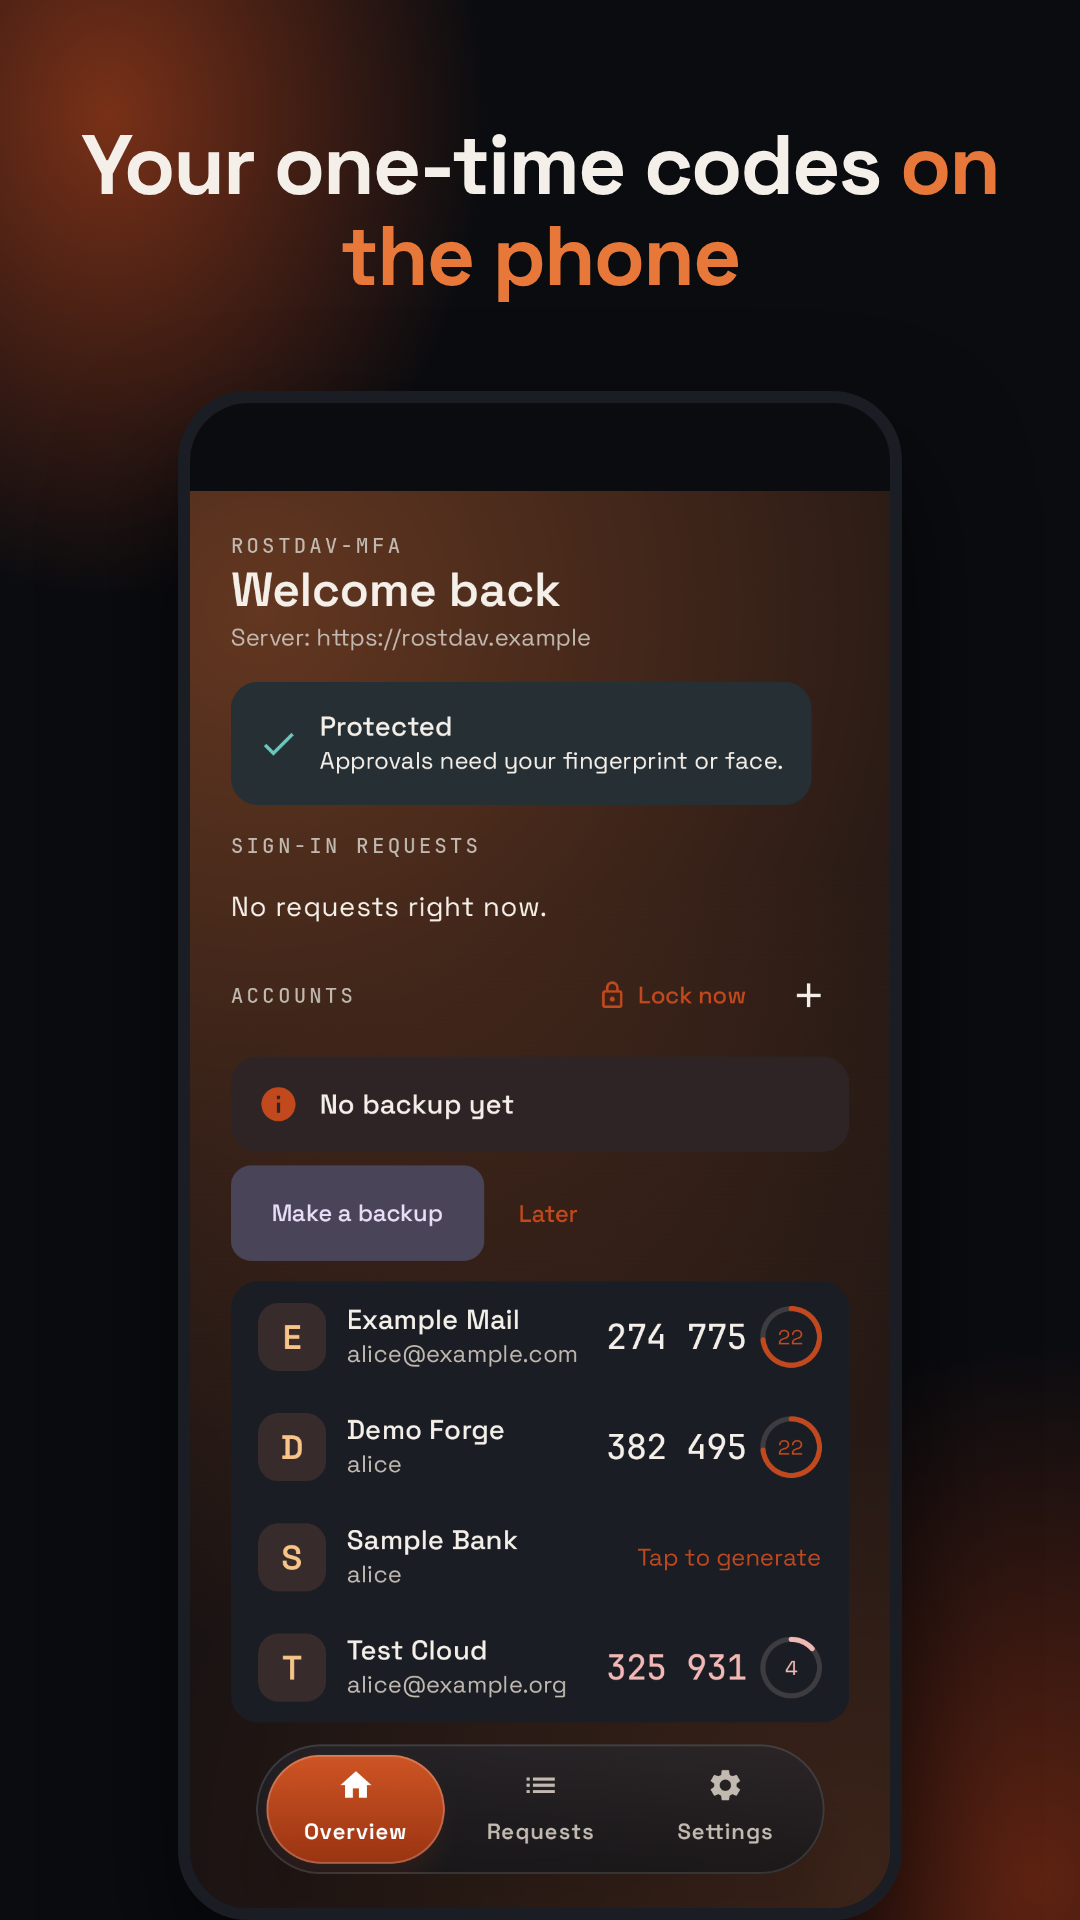
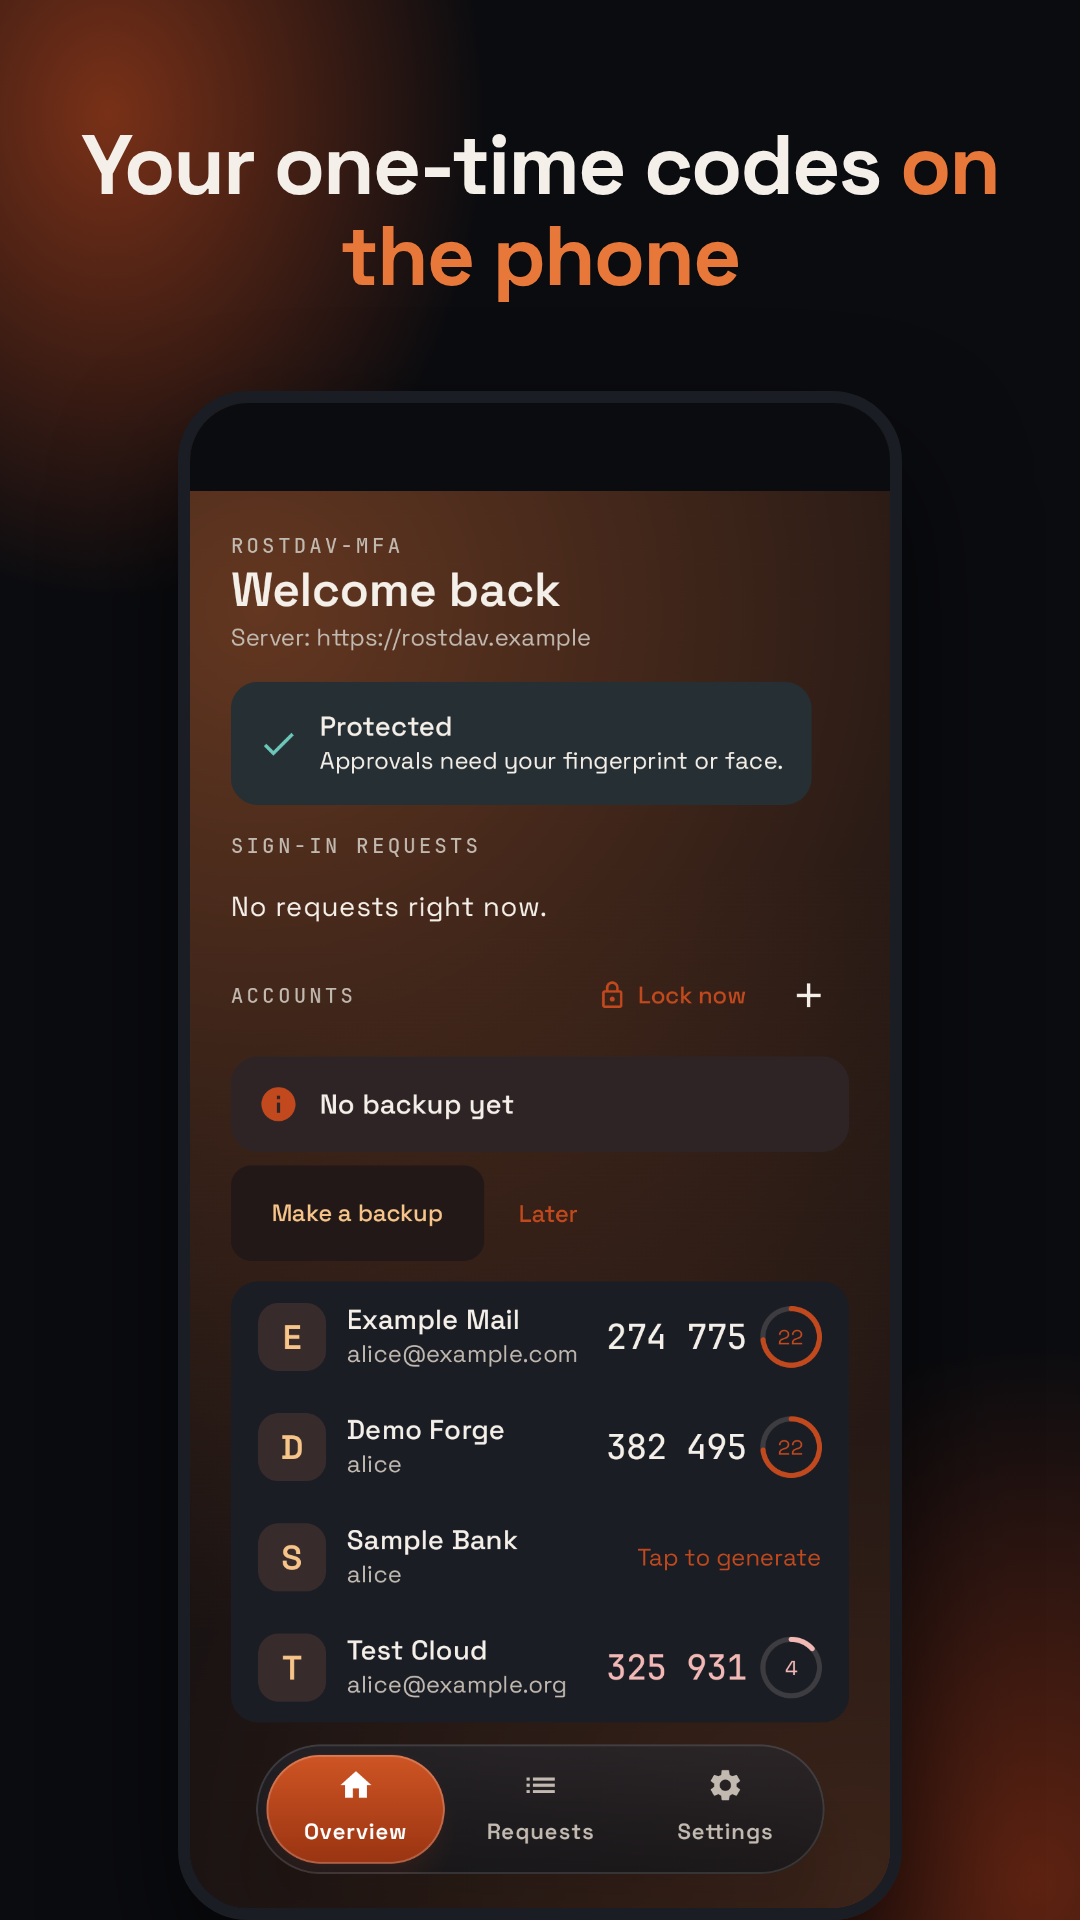
docs: correct the store, site and doc claims; re-render the tonal-button pictures
The store texts no longer say a by-hand add checks the first code. The
docs say what MainActivityLifecycleTest covers and where the ticker
runs, the site names the best-effort clipboard clear, and pictures 11,
13 and frame-05 show the rust-tinted tonal buttons.

Changed region(s): [[0.2139, 0.5938, 0.4583, 0.6562]]

diff --git a/site/index.de.html b/site/index.de.html
@@ -69,7 +69,7 @@
 <h2 id="st">Stand</h2>
 <div class="grid">
 <div class="card"><h3>Heute schon da</h3><p>Einrichten per QR-Code oder von Hand, Zahlenabgleich, Freigabe per Biometrie, die Liste deiner Telefone und letzten Ereignisse, Telefon entfernen. Der Authenticator-Tresor: TOTP- und HOTP-Codes, Hinzufügen per Scan oder von Hand, Umbenennen und Löschen, verschlüsselte Sicherung und Wiederherstellung, Rettung, wenn sich der Tresor nicht öffnen lässt. Dunkles und helles Design, Deutsch und Englisch. Auf einem Android-15-Emulator gegen ein echtes Rostdav getestet.</p></div>
-<div class="note"><h3>Noch nicht da</h3><p>Keine Suche, Sortierung oder Ordner für Konten, keine Dienst-Logos, kein Import aus anderen Authenticator-Apps (nur QR-Codes und eigene Sicherungen). Nicht getestet auf einem echten Telefon, auf Android 9 oder 10 oder mit StrongBox. Es gibt noch keine Store-Version; du baust die App aus dem Quellcode.</p></div>
+<div class="note"><h3>Noch nicht da</h3><p>Keine Suche, Sortierung oder Ordner für Konten, keine Dienst-Logos, kein Import aus anderen Authenticator-Apps (nur QR-Codes und eigene Sicherungen). Nicht getestet auf einem echten Telefon, auf Android 9 oder 10 oder mit StrongBox. Das Löschen eines kopierten Codes aus der Zwischenablage nach 30 Sekunden klappt im Hintergrund nur nach Möglichkeit. Es gibt noch keine Store-Version; du baust die App aus dem Quellcode.</p></div>
 </div>
 </section>
 </main>

diff --git a/site/index.html b/site/index.html
@@ -69,7 +69,7 @@
 <h2 id="st">Status</h2>
 <div class="grid">
 <div class="card"><h3>Working today</h3><p>Enrollment by QR code or by hand, number matching, biometric approval, the list of your phones and recent events, removing a phone. The authenticator vault: TOTP and HOTP codes, add by scan or by hand, rename and delete, encrypted backup and restore, recovery when the vault cannot be opened. Dark and light themes, English and German. Tested on an Android 15 emulator against a real Rostdav.</p></div>
-<div class="note"><h3>Not there yet</h3><p>No search, sorting or folders for accounts, no service logos, no import from other authenticator apps (only QR codes and its own backups). Not tested on a physical phone, on Android 9 or 10, or with StrongBox. There is no store release yet; you build the app from source.</p></div>
+<div class="note"><h3>Not there yet</h3><p>No search, sorting or folders for accounts, no service logos, no import from other authenticator apps (only QR codes and its own backups). Not tested on a physical phone, on Android 9 or 10, or with StrongBox. Clearing a copied code from the clipboard after 30 seconds is best effort while the app is in the background. There is no store release yet; you build the app from source.</p></div>
 </div>
 </section>
 </main>

diff --git a/brand/tests/test_site.py b/brand/tests/test_site.py
@@ -86,6 +86,17 @@ class SiteTest(unittest.TestCase):
         self.assertNotIn("planned", en.lower())
         self.assertIn("Authenticator", de)
         self.assertNotIn("geplant", de.lower())
+        # words the vault copy brought in; absent from the pages before the vault
+        self.assertIn("backup", en.lower())
+        self.assertIn("Sicherung", de)
+
+    def test_the_clipboard_clear_is_called_best_effort(self):
+        en = " ".join(scan("index.html").text).lower()
+        de = " ".join(scan("index.de.html").text)
+        self.assertIn("clipboard", en)
+        self.assertIn("best effort", en)
+        self.assertIn("Zwischenablage", de)
+        self.assertIn("nach Möglichkeit", de)
 
 
 if __name__ == "__main__":

diff --git a/android/docs/vault.md b/android/docs/vault.md
@@ -84,7 +84,7 @@ Not verified: API 28 and 29 (the `setUserAuthenticationValidityDurationSeconds` 
 
 The vault UI lives in `app.rustmfa.android.ui.vault` (the composables) and `app.rustmfa.android.vault` (`VaultViewModel`, `BackupViewModel`, `RestoreFlow`, the clipboard, the prefs and the file access). The design is in `docs/superpowers/specs/2026-11-15-vault-ui-design.md`.
 
-- **Accounts section on the Overview.** One card per state: no vault yet ("Add your first account"), locked ("Unlock"), empty, the account list, and "The vault cannot be opened". A TOTP row shows the code in two groups and a countdown ring (danger colour in the last 5 seconds); a HOTP row shows "Tap to generate" and then the code with a refresh button. One ticker updates the codes every second while the Overview is in the foreground and the vault is open. "Lock now" locks at once.
+- **Accounts section on the Overview.** One card per state: no vault yet ("Add your first account"), locked ("Unlock"), empty, the account list, and "The vault cannot be opened". A TOTP row shows the code in two groups and a countdown ring (danger colour in the last 5 seconds); a HOTP row shows "Tap to generate" and then the code with a refresh button. One ticker updates the codes every second while the app is in the foreground and the vault is open, on any screen (not only the Overview); it stops when the app is left. "Lock now" locks at once.
 - **Copy.** A tap copies the code as a sensitive clip (hidden from the clipboard preview on Android 13 and newer). The app clears the clip after 30 seconds if it is still its own. From the background, Android 10 and newer do not let the app read the clipboard, so the clip may stay; this is best effort.
 - **Long-press sheet.** Copy, Edit (service and account name only; the secret and settings of a saved account cannot be changed) and Delete (asks first). If the vault locked meanwhile, saving asks for the fingerprint or PIN once more; a cancelled prompt shows "Unlock to save".
 - **Add account.** The `+` unlocks first (the first unlock creates the vault). Three choices: Scan QR code (an `otpauth://` URI, then the Check the account screen with the names, the settings and the first code), Enter by hand (secret as dots with a show toggle, TOTP or HOTP, Advanced for algorithm, digits, period or counter), and Import a backup. An account that is already there is skipped with "This account is already in the vault".
@@ -102,7 +102,7 @@ All six obligations the core reviews listed for the UI are met:
 - `BiometricUnlocker` runs on the main thread: `MainActivity`'s authenticator switches to `Dispatchers.Main`.
 - The authenticator is set in `onStart` and set back to `AppContainer.NO_AUTHENTICATOR` in `onStop` (only if it is still this activity's, so a restarted activity keeps its own). The Activity does not leak.
 - All unlocks and resets go through `VaultRepository` (via `VaultViewModel`), never `VaultSession.open()` or `reset()` directly. Reset is offered only from the "cannot be opened" card, after the failed unlock's prompt has finished.
-- `appLeft()` and `appReturned()` are called from the lifecycle (tested by `MainActivityLifecycleTest`).
+- `appLeft()` and `appReturned()` are called from `MainActivity`'s lifecycle. `MainActivityLifecycleTest` checks only the authenticator (set in `onStart`, set back in `onStop`); the 60-second auto-lock and its 59 999 / 60 000 ms boundary are JVM tests (`VaultViewModelTest`, `VaultRepositoryTest`, `VaultSessionTest`).
 - Users are nudged to make a backup: the Overview banner, the Settings subtitle and the note on the Backup screen.
 - `VaultKeyLostException` and `VaultCorruptException` lead to the restore or new-vault flow, both confirmed first; the backup is decrypted before `reset()`, so a wrong passphrase costs nothing. `VaultAuthRequiredException` is treated as a cancelled prompt and not reported as an error.
 

diff --git a/android/docs/e2e.md b/android/docs/e2e.md
@@ -71,7 +71,7 @@ Date: 2026-11-15. Same emulator (`nc-test`, API 35) and a fresh Rostdav 0.10.1 t
 | Enroll by hand (address and token), light and dark | Passed. The phone shows on the Overview. |
 | Request found by polling, shown on Overview and Requests with a count badge on the floating bar | Passed. |
 | Approve: the browser showed 20, the app offered 36, 85 and 20, pick 20, emulator fingerprint | Passed. The app said "Approved" and the server reported `approved`. The last step, the browser page finishing the login, was not driven (the scripted client could not post the finish form); the earlier run in this document did drive it. |
-| Settings, Devices, Requests tabs; dark and light | Passed. Screenshots in `media/`. |
+| Settings, Devices, Requests tabs; dark and light | Passed. The Requests and Devices pictures in `media/` (06, 08) were taken here; the Settings picture (07) is now rendered by `VaultScreenshotsTest` (see below). |
 | Font size 200% and German (`cmd locale set-app-locales`, `settings put system font_scale 2.0`) | Found two problems: the bar labels were clipped and a long server address squeezed the row title to one letter. Both fixed with tests; screens scroll, nothing else clips. |
 | Dark mode text | Found that headings used black on the dark background (no default text colour outside a Surface). Fixed with a test. |
 | API 28 and 29 (solid glass) | Not run: no API 28 system image is installed. Covered by the unit test of `glassStyle`. |
@@ -90,7 +90,7 @@ Date: 2026-11-15. Same emulator (API 35, PIN 1234, one virtual fingerprint), the
 | Clear the screen lock (`locksettings clear`), set it again, enroll the fingerprint again, open the app, Unlock | Passed. "The vault cannot be opened" with "Restore from a backup" and "Start a new vault". |
 | Restore from a backup: wrong passphrase, then the right one, Replace, cancel the prompt, Finish restoring | Passed. The wrong passphrase gave the error and no confirm dialog; after the cancelled prompt the screen offered "Finish restoring"; then "Added 2, skipped 0" and the old account was gone. The lock screen was put back (PIN 1234, one fingerprint). |
 
-Not done by hand: scanning a real QR code with the camera (the parsing is unit-tested), "Start a new vault" (JVM and dialog tests), auto-lock after 60 seconds away (`MainActivityLifecycleTest` and JVM tests). Not verifiable on this emulator: the vault key on API 28 and 29 (the `setUserAuthenticationValidityDurationSeconds` branch), StrongBox (the emulator has none, so the normal Keystore ran), a real fingerprint sensor, and clearing the clipboard while the app is in the background (Android 10 and newer do not let a background app read the clipboard, so the 30-second clear is best effort there).
+Not done by hand: scanning a real QR code with the camera (the parsing is unit-tested), "Start a new vault" (JVM and dialog tests), auto-lock after 60 seconds away (JVM tests only: `VaultViewModelTest`, `VaultRepositoryTest` and `VaultSessionTest` cover the 59 999 / 60 000 ms boundary; `MainActivityLifecycleTest` checks only the authenticator). Not verifiable on this emulator: the vault key on API 28 and 29 (the `setUserAuthenticationValidityDurationSeconds` branch), StrongBox (the emulator has none, so the normal Keystore ran), a real fingerprint sensor, and clearing the clipboard while the app is in the background (Android 10 and newer do not let a background app read the clipboard, so the 30-second clear is best effort there).
 
 The vault screenshots in `media/` (04, 05, 07, 11, 12 and 13) are rendered by the opt-in `VaultScreenshotsTest`, because the window cannot be captured while the vault is open.
 

diff --git a/android/README.md b/android/README.md
@@ -4,7 +4,7 @@ Native Android app for rostdav-mfa push approval (spec phases 2 to 4). The app t
 
 ## Screenshots
 
-Pictures 01 to 03, 06 and 08 were taken on the emulator against a real Rostdav. The other screens block screen capture (`FLAG_SECURE`: Approve, the Overview while the vault is unlocked, and the add, backup and restore screens), so their pictures are rendered from the real composables with sample data: Approve by `ScreenshotsTest`, the vault screens and Settings by `VaultScreenshotsTest`. The vault pictures use made-up services and public test secrets. `VaultScreenshotsTest` is opt-in (it is skipped unless the instrumentation argument `screenshots` is `true`); its class comment has the commands.
+Pictures 01 to 03, 06 and 08 were taken on the emulator against a real Rostdav. The other pictures are rendered from the real composables with sample data. Most of those screens block screen capture (`FLAG_SECURE`: Approve, the Overview while the vault is unlocked, and the add, backup and restore screens); 04 (vault locked) and 07 (Settings) do not, but are rendered the same way so the set looks alike. The renderers: Approve by `ScreenshotsTest`, the vault screens and Settings by `VaultScreenshotsTest`. The vault pictures use made-up services and public test secrets. `VaultScreenshotsTest` is opt-in (it is skipped unless the instrumentation argument `screenshots` is `true`); its class comment has the commands.
 
 | Screen | Dark | Light |
 | --- | --- | --- |

diff --git a/README.md b/README.md
@@ -20,7 +20,7 @@ The app also keeps the one-time codes (TOTP and HOTP) of your other accounts in 
 | `android/` | The Android app (Kotlin, Jetpack Compose). See [`android/README.md`](android/README.md). |
 | `contract/` | The shared signing contract (a Rust crate) with test vectors that the Rostdav server and the app both run. |
 | `brand/` | Design tokens, logo kit, brand guide and store listing material. Tokens in `brand/tokens.json` generate the app's `Tokens.kt` and the site's `tokens.css`. |
-| `media/` | Screenshots, light and dark: taken on an emulator against a real Rostdav, or rendered from the app's screens by tests where the window blocks capture (Approve and the vault). |
+| `media/` | Screenshots, light and dark: taken on an emulator against a real Rostdav, or rendered from the app's screens by tests where the window blocks capture (Approve and the vault; the locked Overview and Settings are rendered too, so the set looks alike). |
 
 ## Screenshots
 
